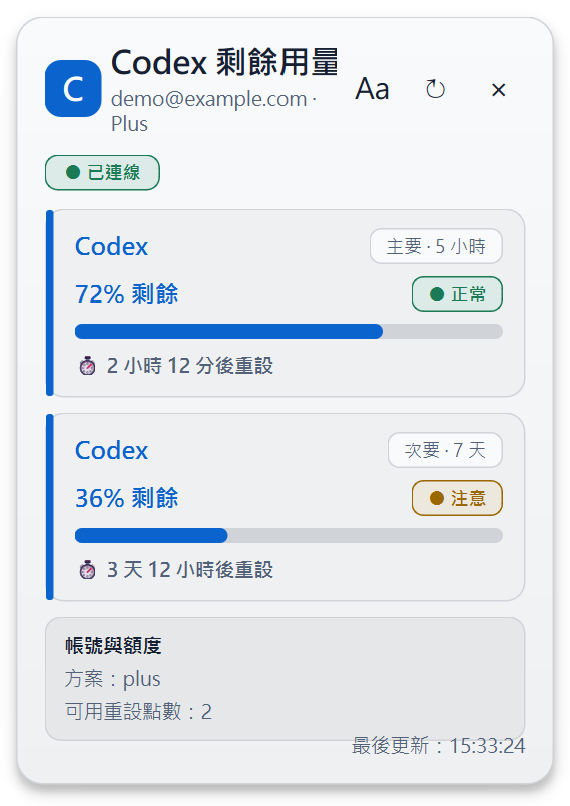
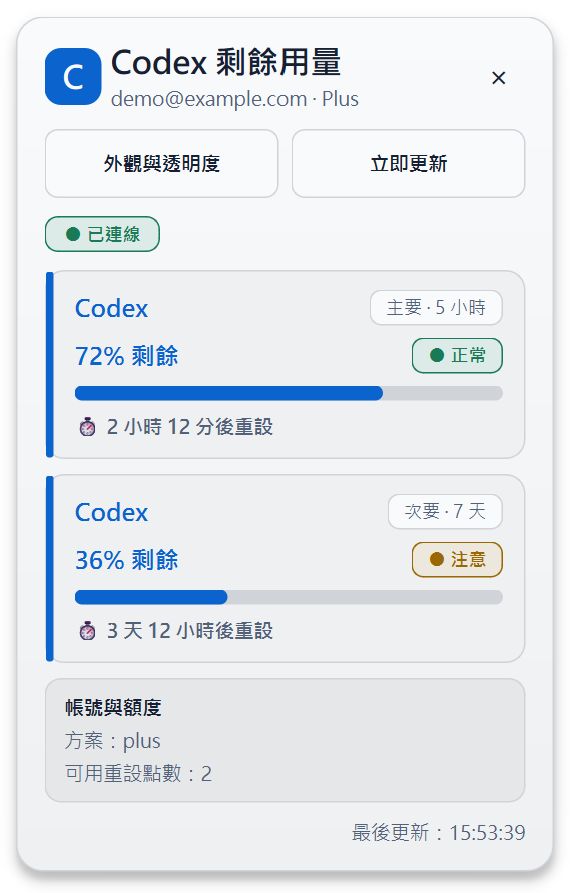
fix: expose clickable widget actions

diff --git a/src/codex_usage_widget/widget.py b/src/codex_usage_widget/widget.py
@@ -464,25 +464,6 @@ class FloatingUsageWidget(QWidget):
         title_column.addWidget(self.account_label)
         header_layout.addLayout(title_column, 1)
 
-        self.appearance_button = QToolButton()
-        self.appearance_button.setObjectName("HeaderButton")
-        self.appearance_button.setText("Aa")
-        self.appearance_button.setToolTip("在卡片中調整透明度與重點文字顏色")
-        self.appearance_button.setAccessibleName("顯示介面外觀調整")
-        self.appearance_button.setCheckable(True)
-        self.appearance_button.setFixedSize(36, 36)
-        self.appearance_button.clicked.connect(self._set_appearance_panel_visible)
-        header_layout.addWidget(self.appearance_button)
-
-        self.refresh_button = QToolButton()
-        self.refresh_button.setObjectName("HeaderButton")
-        self.refresh_button.setText("↻")
-        self.refresh_button.setToolTip("立即更新")
-        self.refresh_button.setAccessibleName("立即更新用量")
-        self.refresh_button.setFixedSize(36, 36)
-        self.refresh_button.clicked.connect(self.refresh_requested.emit)
-        header_layout.addWidget(self.refresh_button)
-
         self.close_button = QToolButton()
         self.close_button.setObjectName("HeaderButton")
         self.close_button.setText("×")
@@ -492,6 +473,30 @@ class FloatingUsageWidget(QWidget):
         self.close_button.clicked.connect(self.close)
         header_layout.addWidget(self.close_button)
         self.card_layout.addWidget(header)
+
+        action_bar = QFrame()
+        action_bar.setObjectName("ActionBar")
+        action_layout = QHBoxLayout(action_bar)
+        action_layout.setContentsMargins(0, 0, 0, 0)
+        action_layout.setSpacing(8)
+
+        self.appearance_button = QPushButton("外觀與透明度")
+        self.appearance_button.setObjectName("ActionButton")
+        self.appearance_button.setToolTip("展開透明度與重點資訊顏色設定")
+        self.appearance_button.setAccessibleName("顯示介面外觀與透明度調整")
+        self.appearance_button.setCheckable(True)
+        self.appearance_button.setCursor(Qt.CursorShape.PointingHandCursor)
+        self.appearance_button.clicked.connect(self._set_appearance_panel_visible)
+        action_layout.addWidget(self.appearance_button, 1)
+
+        self.refresh_button = QPushButton("立即更新")
+        self.refresh_button.setObjectName("ActionButton")
+        self.refresh_button.setToolTip("立即重新讀取 Codex 剩餘用量")
+        self.refresh_button.setAccessibleName("立即更新用量")
+        self.refresh_button.setCursor(Qt.CursorShape.PointingHandCursor)
+        self.refresh_button.clicked.connect(self.refresh_requested.emit)
+        action_layout.addWidget(self.refresh_button, 1)
+        self.card_layout.addWidget(action_bar)
 
         self.appearance_panel = AppearancePanel(
             self._opacity_percent,
@@ -651,8 +656,9 @@ class FloatingUsageWidget(QWidget):
         self.refresh_button.setEnabled(state in {ConnectionState.READY, ConnectionState.ERROR})
 
     def set_refreshing(self, refreshing: bool) -> None:
-        self.refresh_button.setText("…" if refreshing else "↻")
-        self.refresh_button.setEnabled(not refreshing)
+        self.refresh_button.setText("更新中…" if refreshing else "立即更新")
+        self.refresh_button.setProperty("busy", refreshing)
+        _refresh_style(self.refresh_button)
         if refreshing and self._snapshot is not None:
             self.status_label.setText("◌ 更新中")
             self.status_label.setProperty("connection", "working")

diff --git a/tests/test_widget.py b/tests/test_widget.py
@@ -7,7 +7,7 @@ from PySide6.QtCore import QPoint, QSettings, Qt
 from PySide6.QtWidgets import QStyle, QStyleOptionSlider
 
 from codex_usage_widget.autostart import AutostartManager
-from codex_usage_widget.models import RateLimitWindowView, UsageSnapshot
+from codex_usage_widget.models import ConnectionState, RateLimitWindowView, UsageSnapshot
 from codex_usage_widget.widget import (
     AppearancePanel,
     FloatingUsageWidget,
@@ -85,7 +85,7 @@ def test_saved_appearance_is_migrated_and_can_be_updated(qtbot, tmp_path) -> Non
 
     assert widget.windowOpacity() == pytest.approx(0.65, abs=1 / 255)
     assert "#123456" in widget.styleSheet()
-    assert widget.appearance_button.accessibleName() == "顯示介面外觀調整"
+    assert widget.appearance_button.accessibleName() == "顯示介面外觀與透明度調整"
     assert settings.value("appearance/important_text_color") == "#123456"
     assert settings.value("appearance/background_color") is None
 
@@ -175,3 +175,27 @@ def test_opacity_slider_can_be_dragged_continuously(qtbot, tmp_path) -> None:
 
     assert slider.value() <= 45
     assert settings.value("appearance/opacity_percent", type=int) == slider.value()
+
+
+def test_primary_actions_are_visible_and_mouse_clickable(qtbot, tmp_path) -> None:
+    settings = QSettings(str(tmp_path / "settings.ini"), QSettings.Format.IniFormat)
+    autostart = AutostartManager(FakeRegistry(), executable="widget.exe", frozen=False)
+    widget = FloatingUsageWidget(settings, autostart, enable_tray=False)
+    qtbot.addWidget(widget)
+    widget.set_connection_state(ConnectionState.READY)
+    widget.show()
+
+    assert widget.appearance_button.text() == "外觀與透明度"
+    assert widget.refresh_button.text() == "立即更新"
+    assert widget.appearance_button.isEnabled()
+    assert widget.refresh_button.isEnabled()
+
+    qtbot.mouseClick(widget.appearance_button, Qt.MouseButton.LeftButton)
+    assert widget.appearance_panel.isVisible()
+
+    with qtbot.waitSignal(widget.refresh_requested, timeout=1_000):
+        qtbot.mouseClick(widget.refresh_button, Qt.MouseButton.LeftButton)
+
+    widget.set_refreshing(True)
+    assert widget.refresh_button.text() == "更新中…"
+    assert widget.refresh_button.isEnabled()

diff --git a/src/codex_usage_widget/theme.py b/src/codex_usage_widget/theme.py
@@ -153,6 +153,10 @@ def build_stylesheet(dark: bool, important_text_override: str | None = None) -> 
             background: transparent;
             border: none;
         }}
+        QFrame#ActionBar {{
+            background: transparent;
+            border: none;
+        }}
         QLabel#BrandMark {{
             color: {token.surface};
             background: {token.important_text};
@@ -304,6 +308,26 @@ def build_stylesheet(dark: bool, important_text_override: str | None = None) -> 
         QPushButton#ColorButton {{
             text-align: left;
             font-weight: 600;
+        }}
+        QPushButton#ActionButton {{
+            min-height: 40px;
+            background: {token.surface};
+            border-color: {outline_soft};
+            font-size: 10pt;
+            font-weight: 600;
+        }}
+        QPushButton#ActionButton:hover {{
+            background: {interactive_soft};
+            border-color: {token.interactive};
+        }}
+        QPushButton#ActionButton:checked {{
+            color: {token.important_text};
+            background: {accent_soft};
+            border-color: {token.important_text};
+        }}
+        QPushButton#ActionButton[busy="true"] {{
+            color: {token.interactive};
+            background: {interactive_soft};
         }}
         QSlider::groove:horizontal {{
             height: 8px;
